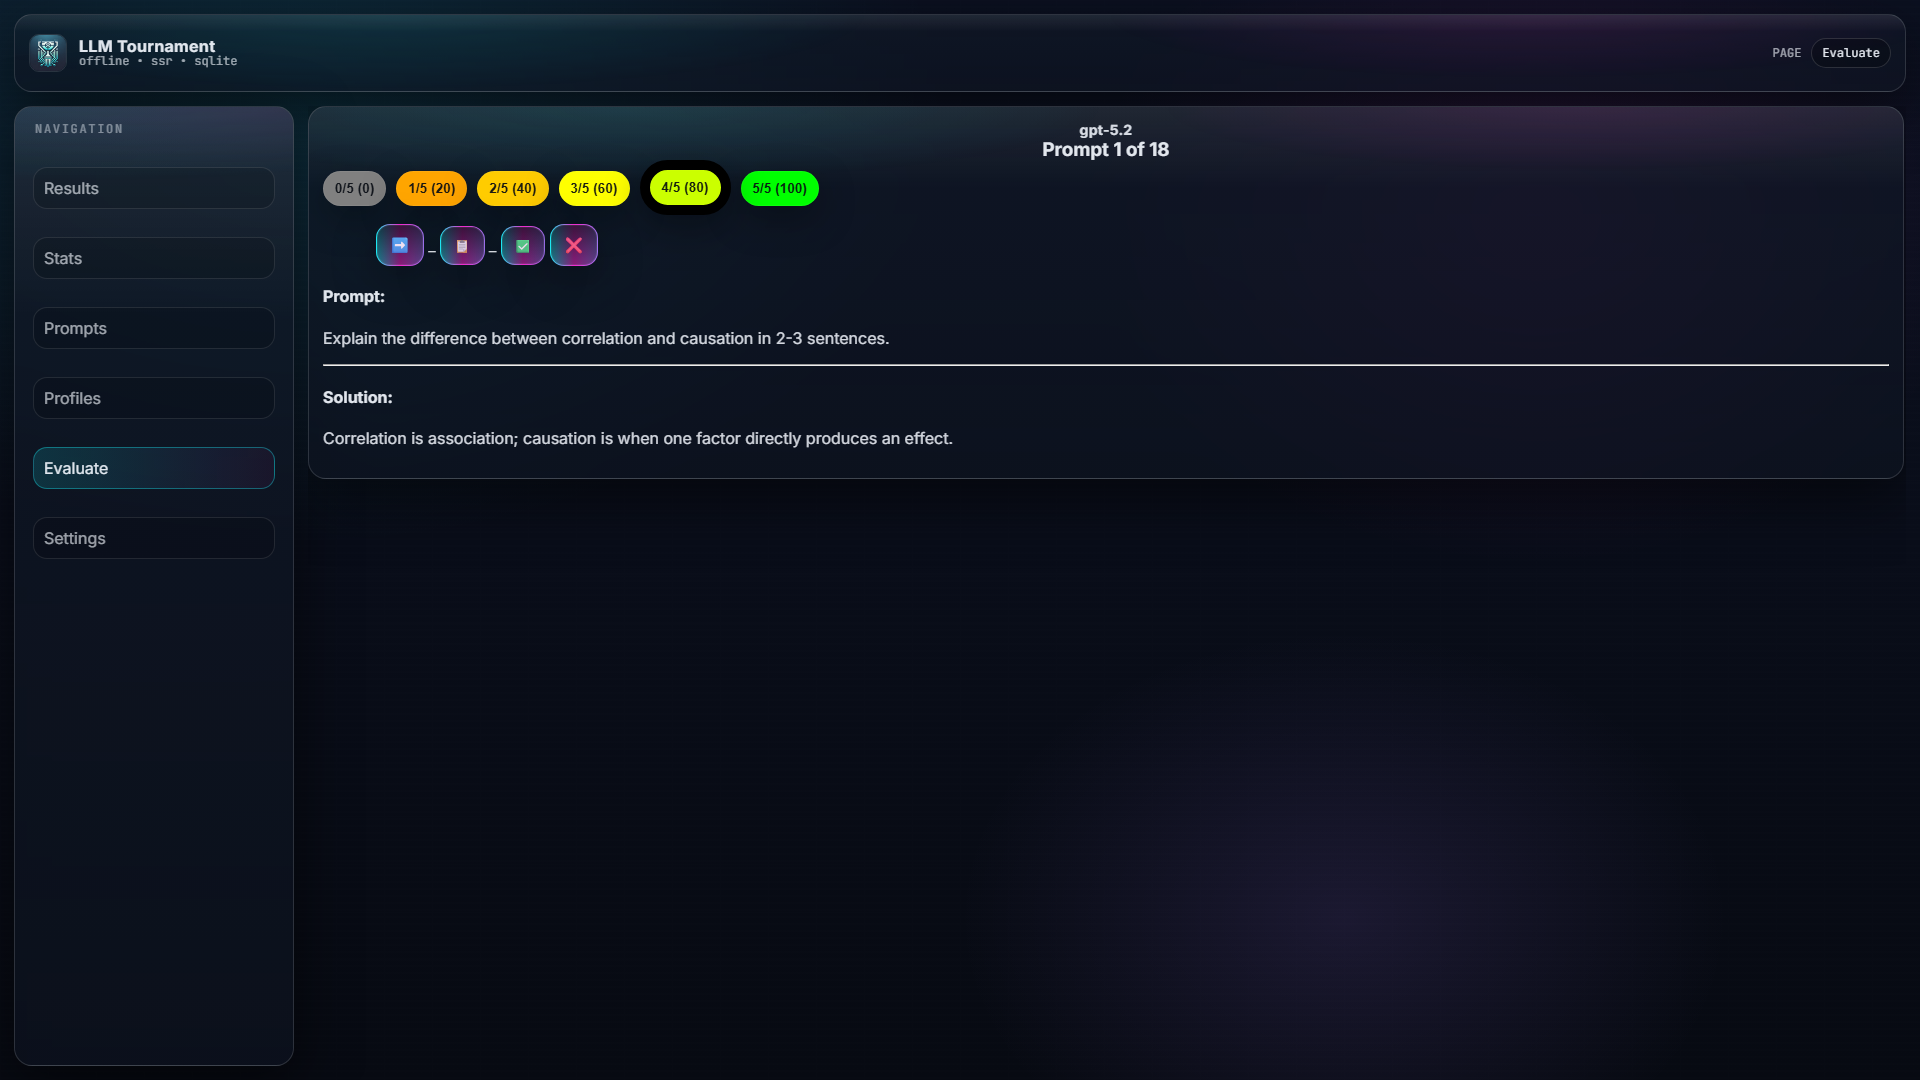
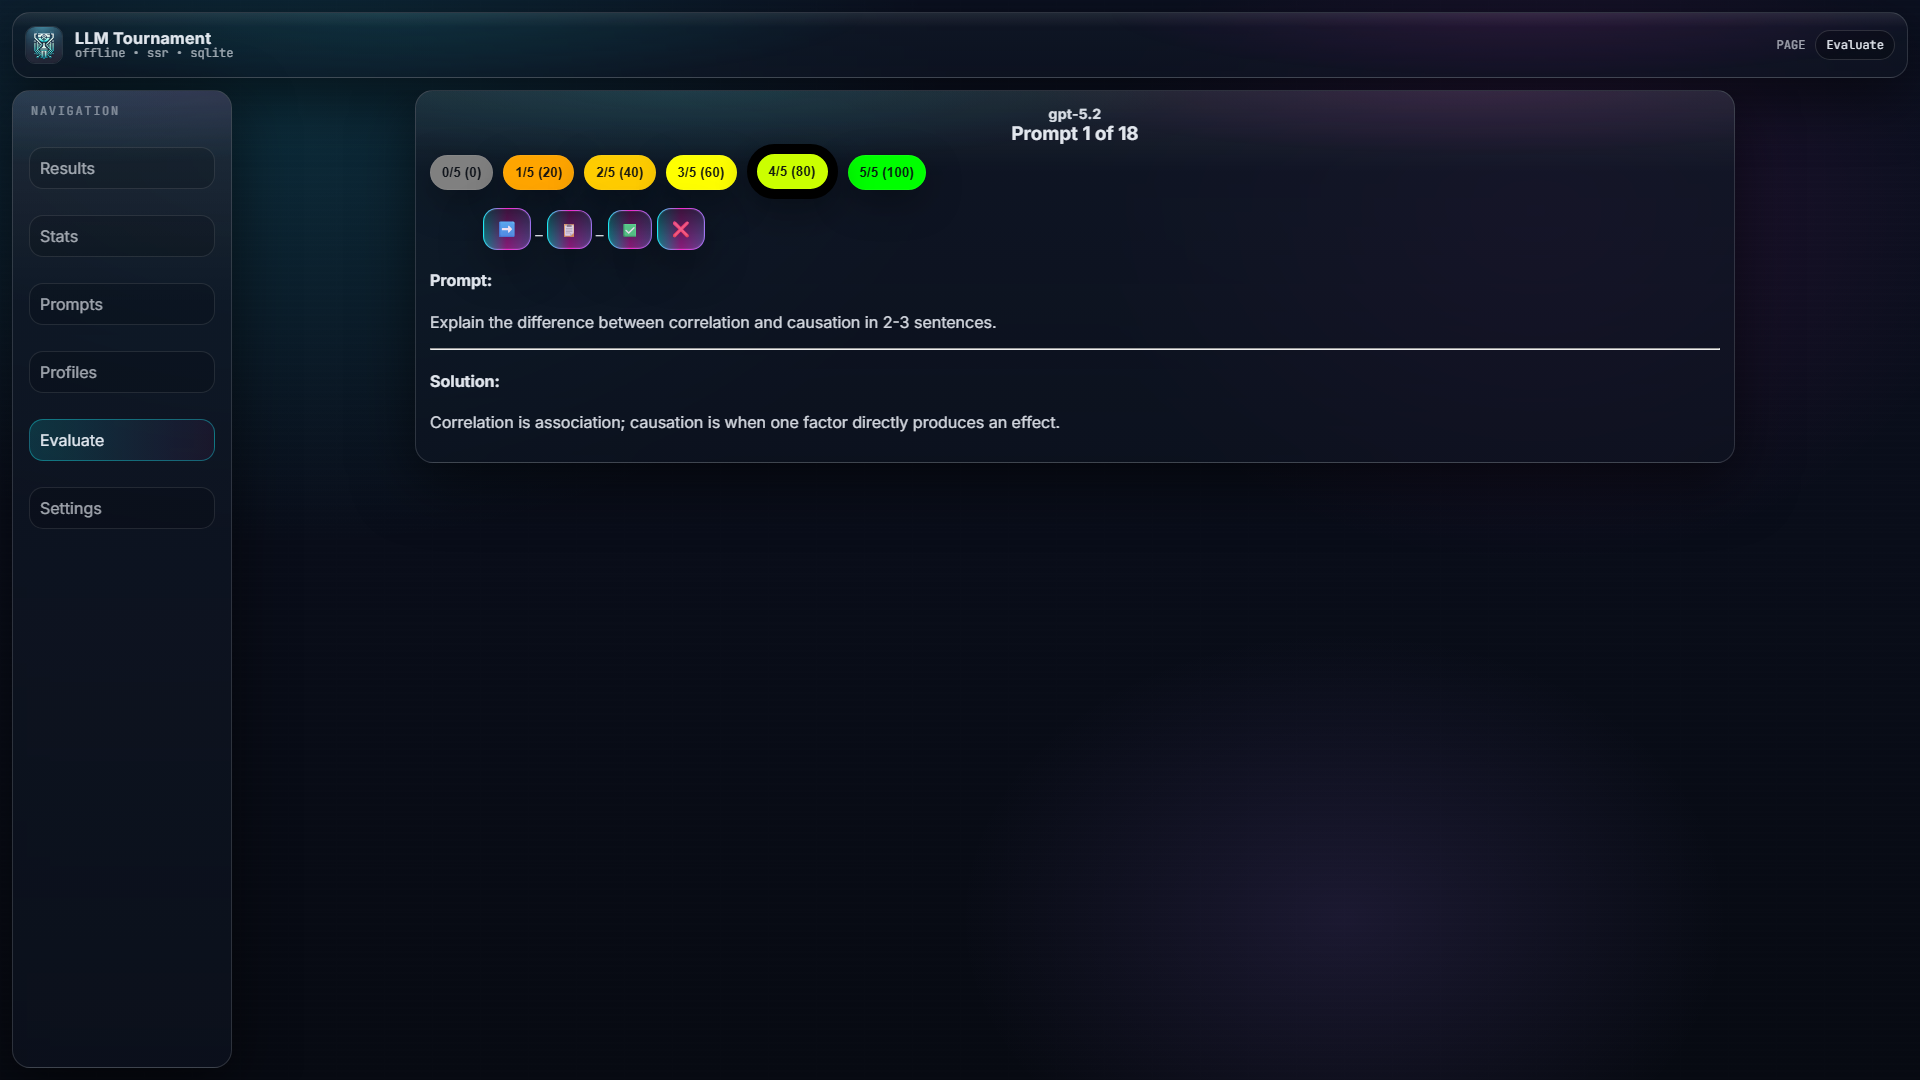
release: v3.1

diff --git a/templates/arena.css b/templates/arena.css
@@ -23,6 +23,12 @@
   --radius: 14px;
   --shadow: 0 18px 60px rgba(0, 0, 0, 0.55);
 
+  --shell-pad: 12px;
+  --shell-gap: 12px;
+  --topbar-height: 66px;
+  --sidebar-width: 220px;
+  --content-max-width: 1320px;
+
   --mono: "JetBrains Mono", ui-monospace, "Cascadia Mono", Consolas, Menlo,
     monospace;
   --sans: Inter, system-ui, -apple-system, "Segoe UI", Roboto, Arial, sans-serif;
@@ -210,10 +216,10 @@ a:hover {
 .arena-shell {
   min-height: 100%;
   display: grid;
-  grid-template-columns: 280px 1fr;
-  grid-template-rows: 78px 1fr;
-  gap: 14px;
-  padding: 14px;
+  grid-template-columns: var(--sidebar-width) 1fr;
+  grid-template-rows: var(--topbar-height) 1fr;
+  gap: var(--shell-gap);
+  padding: var(--shell-pad);
 }
 
 .arena-shell-solo {
@@ -240,15 +246,16 @@ a:hover {
   display: flex;
   align-items: center;
   justify-content: space-between;
-  padding: 12px 14px;
+  min-height: var(--topbar-height);
+  padding: 10px 12px;
 }
 
 .arena-sidebar {
   grid-row: 2 / -1;
-  padding: 12px;
+  padding: 10px;
   display: flex;
   flex-direction: column;
-  gap: 12px;
+  gap: 10px;
 }
 
 .nav-item {
@@ -290,6 +297,9 @@ a:hover {
   grid-row: 2 / -1;
   overflow: auto;
   padding-right: 2px;
+  display: flex;
+  flex-direction: column;
+  gap: 12px;
 }
 
 /* ---- Surfaces ---- */
@@ -428,6 +438,8 @@ input[type="text"],
 input[type="password"],
 input[type="number"],
 textarea,
+select,
+input[type="file"],
 .form-control,
 .search-input {
   width: 100%;
@@ -438,6 +450,31 @@ textarea,
   padding: 10px 12px;
   outline: none;
   box-shadow: 0 0 0 1px rgba(255, 255, 255, 0.06) inset;
+}
+
+select {
+  appearance: none;
+  -webkit-appearance: none;
+  -moz-appearance: none;
+  padding-right: 36px;
+  background-image: linear-gradient(
+      45deg,
+      transparent 50%,
+      rgba(244, 248, 255, 0.55) 50%
+    ),
+    linear-gradient(
+      135deg,
+      rgba(244, 248, 255, 0.55) 50%,
+      transparent 50%
+    );
+  background-position: calc(100% - 16px) calc(50% + 1px),
+    calc(100% - 11px) calc(50% + 1px);
+  background-size: 6px 6px, 6px 6px;
+  background-repeat: no-repeat;
+}
+
+input[type="file"] {
+  padding: 8px 10px;
 }
 
 textarea {
@@ -452,10 +489,107 @@ textarea::placeholder {
 
 input:focus,
 textarea:focus,
+select:focus,
+input[type="file"]:focus,
 .form-control:focus,
 .search-input:focus {
   border-color: rgba(25, 247, 255, 0.25);
   box-shadow: 0 0 0 3px rgba(25, 247, 255, 0.16);
+}
+
+/* ---- Utility layout helpers used by templates ---- */
+.margin-right-5 {
+  margin-right: 5px;
+}
+
+.flex-form,
+.filter-form,
+.search-form {
+  display: flex;
+  align-items: center;
+  gap: 8px;
+  flex-wrap: wrap;
+}
+
+.flex-form input[type="text"] {
+  width: 300px;
+  max-width: 100%;
+}
+
+.search-form .search-input {
+  width: 320px;
+  max-width: 100%;
+}
+
+.filter-form select {
+  width: 240px;
+  max-width: 100%;
+}
+
+.filter-container form,
+.file-import-form,
+.results-management {
+  display: flex;
+  align-items: center;
+  gap: 8px;
+  flex-wrap: wrap;
+}
+
+.filter-container select,
+.sticky-header select,
+.sticky-footer select {
+  width: 240px;
+  max-width: 100%;
+}
+
+.file-import-form input[type="file"] {
+  width: 340px;
+  max-width: 100%;
+}
+
+.sticky-header,
+.sticky-footer,
+.title-row {
+  padding: 10px 12px;
+  display: flex;
+  align-items: center;
+  justify-content: space-between;
+  gap: 12px;
+  flex-wrap: wrap;
+}
+
+.sticky-header textarea,
+.sticky-footer textarea {
+  width: 320px;
+  max-width: 100%;
+}
+
+.title-row .filter-container,
+.title-row .search-container {
+  display: flex;
+  flex: 1 1 340px;
+}
+
+.title-row .title-container {
+  display: flex;
+  align-items: center;
+  justify-content: center;
+  gap: 8px;
+  flex: 0 1 auto;
+}
+
+.title-row .search-container {
+  justify-content: flex-end;
+}
+
+.arena-main > .sticky-header,
+.arena-main > .title-row,
+.arena-main > .sticky-footer,
+.arena-main > .evaluation-form,
+.arena-main > .container,
+.arena-main > ul {
+  width: min(var(--content-max-width), 100%);
+  margin: 0 auto;
 }
 
 /* ---- Tables ---- */
@@ -524,11 +658,16 @@ tbody tr:hover {
 /* ---- Scroll buttons ---- */
 .scroll-buttons {
   position: fixed;
-  right: 16px;
+  left: 26px;
   bottom: 16px;
   display: grid;
   gap: 8px;
   z-index: 1000;
+}
+
+.arena-shell-solo .scroll-buttons {
+  left: auto;
+  right: 16px;
 }
 
 .scroll-button {

diff --git a/arena_ui_compaction_test.go b/arena_ui_compaction_test.go
@@ -1,0 +1,111 @@
+package main
+
+import (
+	"os"
+	"strings"
+	"testing"
+)
+
+func cssBlock(t *testing.T, css, selector string) string {
+	t.Helper()
+
+	start := strings.Index(css, selector)
+	if start < 0 {
+		t.Fatalf("templates/arena.css missing selector %q", selector)
+	}
+
+	open := strings.Index(css[start:], "{")
+	if open < 0 {
+		t.Fatalf("templates/arena.css selector %q missing '{'", selector)
+	}
+	open += start
+
+	close := strings.Index(css[open:], "}")
+	if close < 0 {
+		t.Fatalf("templates/arena.css selector %q missing closing '}'", selector)
+	}
+	close += open
+
+	return css[open : close+1]
+}
+
+func TestArenaCSS_DefinesCompactSidebarWidthVariable(t *testing.T) {
+	t.Helper()
+
+	cssBytes, err := os.ReadFile("templates/arena.css")
+	if err != nil {
+		t.Fatalf("read templates/arena.css: %v", err)
+	}
+	css := string(cssBytes)
+
+	if !strings.Contains(css, "--sidebar-width:") {
+		t.Fatalf("templates/arena.css must define --sidebar-width for a thinner nav rail")
+	}
+
+	shell := cssBlock(t, css, ".arena-shell")
+	if !strings.Contains(shell, "grid-template-columns: var(--sidebar-width) 1fr") {
+		t.Fatalf("templates/arena.css .arena-shell must use --sidebar-width in grid-template-columns")
+	}
+}
+
+func TestArenaCSS_StylesDropdownsAndFileInputs(t *testing.T) {
+	t.Helper()
+
+	cssBytes, err := os.ReadFile("templates/arena.css")
+	if err != nil {
+		t.Fatalf("read templates/arena.css: %v", err)
+	}
+	css := string(cssBytes)
+
+	if !strings.Contains(css, "select") {
+		t.Fatalf("templates/arena.css must style <select> dropdowns")
+	}
+	if !strings.Contains(css, `input[type="file"]`) {
+		t.Fatalf("templates/arena.css must style file inputs (input[type=\"file\"])")
+	}
+}
+
+func TestArenaCSS_ProvidesCompactHeaderAndToolbarLayouts(t *testing.T) {
+	t.Helper()
+
+	cssBytes, err := os.ReadFile("templates/arena.css")
+	if err != nil {
+		t.Fatalf("read templates/arena.css: %v", err)
+	}
+	css := string(cssBytes)
+
+	for _, selector := range []string{
+		".sticky-header",
+		".sticky-footer",
+		".title-row",
+		".filter-form",
+		".search-form",
+		".flex-form",
+	} {
+		_ = cssBlock(t, css, selector)
+	}
+
+	titleRow := cssBlock(t, css, ".title-row")
+	if !strings.Contains(titleRow, "display: flex") {
+		t.Fatalf("templates/arena.css .title-row must be a flex row so controls can share a line when space allows")
+	}
+}
+
+func TestArenaCSS_ScrollButtonsUseSidebarSpace(t *testing.T) {
+	t.Helper()
+
+	cssBytes, err := os.ReadFile("templates/arena.css")
+	if err != nil {
+		t.Fatalf("read templates/arena.css: %v", err)
+	}
+	css := string(cssBytes)
+
+	block := cssBlock(t, css, ".scroll-buttons")
+	if !strings.Contains(block, "left:") {
+		t.Fatalf("templates/arena.css .scroll-buttons must be anchored on the left to utilize sidebar space")
+	}
+	if strings.Contains(block, "right:") {
+		t.Fatalf("templates/arena.css .scroll-buttons should not be anchored on the right anymore")
+	}
+}
+

diff --git a/CHANGELOG.md b/CHANGELOG.md
@@ -2,6 +2,18 @@
 
 All notable changes are documented in this file.
 
+## [v3.1] - 2025-12-19
+
+### Added
+- **Arena UI CSS regression tests:** Basic tests to prevent layout regressions (sidebar width variable, toolbar flex layouts, dropdown + file input styling, and scroll button anchoring).
+- **UI Tour screenshot automation:** A Playwright-based capture script (`npm run screenshots`) to regenerate the README UI Tour screenshots deterministically.
+
+### Changed
+- **More compact Arena layout:** Thinner left navigation rail and tighter top bar spacing to prioritize content.
+- **Toolbar layout fixes:** Sticky headers/footers and title/tool rows now compact into flex rows and only wrap when needed.
+- **Styled dropdowns and file inputs:** `<select>` and `input[type="file"]` now match the Arena theme instead of rendering unstyled defaults.
+- **Scroll buttons repositioned:** “↑/↓” buttons use the left sidebar space on shell pages (and stay bottom-right on solo pages).
+
 ## [v3.0] - 2025-12-19
 
 ### Added

diff --git a/RELEASE_NOTES_v3.1.md b/RELEASE_NOTES_v3.1.md
@@ -1,0 +1,20 @@
+# v3.1 (2025-12-19)
+
+This is a small polish release after `v3.0`, focused on tightening the Arena UI layout and keeping the README UI Tour screenshots in sync.
+
+## Highlights
+
+### Arena UI Compaction
+- Thinner left navigation rail for more horizontal space.
+- Sticky headers/footers and title/tool rows now use compact flex layouts (buttons stay on the same row when there’s room).
+- Dropdowns (`<select>`) and file inputs are styled to match the Arena theme.
+- “Scroll to top / bottom” buttons use the sidebar space on shell pages (and stay bottom-right on solo pages).
+
+### Docs: Auto-generated UI Screenshots
+- `npm run screenshots` regenerates `assets/ui-*.png` using a deterministic demo server + Playwright.
+
+## Verification
+
+- `CGO_ENABLED=1 go test ./... -v -race -cover`
+- `npm run screenshots`
+
